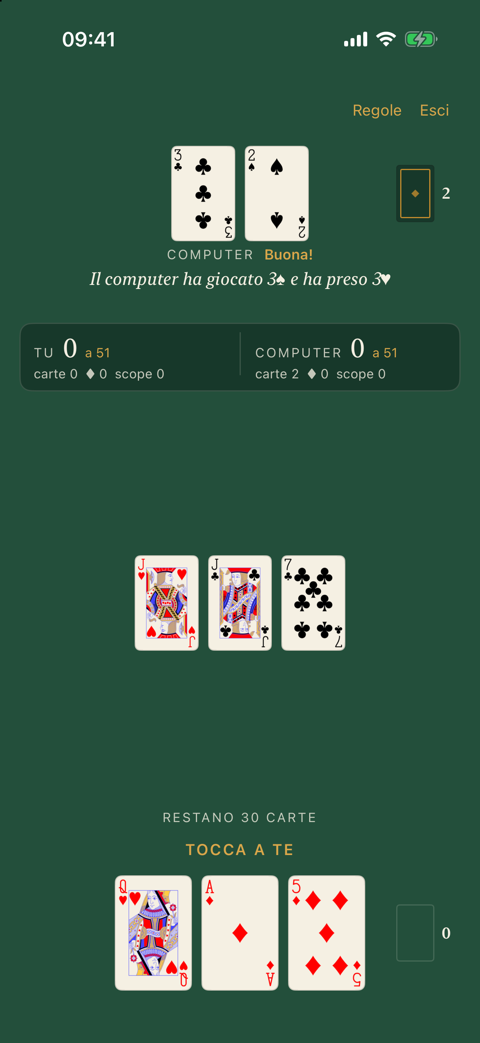
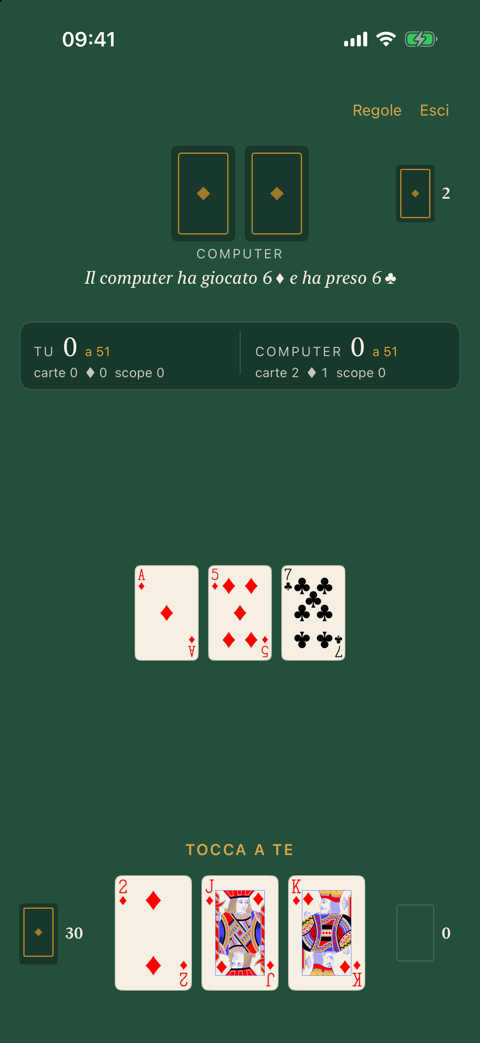
Cirulla: screenshots and copy after the 1.0 update
New table, hand-over, Settings and Italian shots (deck pile, three decks);
the scopa shot replaces Home. Copy adds the Simple deck and VoiceOver
play; results recounted (362 tests, 215 commits, about 6,500 lines).

diff --git a/work/cirulla/index.html b/work/cirulla/index.html
@@ -4,7 +4,7 @@
 <meta charset="utf-8">
 <meta name="viewport" content="width=device-width, initial-scale=1">
 <title>Cirulla · Filippo Lamanna</title>
-<meta name="description" content="Cirulla, the Ligurian card game, for iPhone: the regional rules as they are really played, three computer opponents, in English and Italian, and 336 automated tests.">
+<meta name="description" content="Cirulla, the Ligurian card game, for iPhone: the regional rules as they are really played, three computer opponents, in English and Italian, and 362 automated tests.">
 <meta property="og:title" content="Cirulla · Filippo Lamanna">
 <meta property="og:description" content="The Ligurian card game of fifteen, against the computer.">
 <meta property="og:image" content="https://filippolamanna.github.io/assets/img/og.png">
@@ -55,7 +55,7 @@
     <div class="body">
       <p>Cirulla is a Ligurian card game in the Scopa family: you capture table cards that match your card or add up to 15. There are few good ways to play it on a phone, and card apps often get the regional rules wrong.</p>
       <p>This iPhone app plays a full two-player match against the computer at three difficulty levels, following the rules as they are played in Liguria. It keeps the traditional secret declarations (buona and cirulla), shows a full score breakdown after each hand, and saves automatically so you can pick up later.</p>
-      <p>It is in English and Italian. You choose the cards at first start, Ligurian or Classic, and can switch at any time, even mid-game. Settings also hold the four house rules, capture hints, haptics, match length and a choice of two app icons.</p>
+      <p>It is in English and Italian. You choose the cards at first start, from three decks (Ligurian, Classic or the app's own Simple cards), and can switch at any time, even mid-game. Settings also hold the four house rules, capture hints, haptics, match length and a choice of two app icons.</p>
     </div>
   </section>
 
@@ -71,6 +71,7 @@
         <li>Four Ligurian house rules are on unless you switch them off: cappotto (all ten diamonds wins the match), scciupon de fotta (a scopa with the last card of the hand does not count), a monte (two or more Aces dealt to the table void the deal) and the dealer's four of a kind.</li>
         <li>Matches run to the traditional 31, 51 or 101 points.</li>
         <li>Every word on screen and every spoken VoiceOver line is in English and Italian. A test fails if any text in the app is missing its Italian.</li>
+        <li>It can be played with VoiceOver: each card says whose it is, a scopa or a declaration is announced, and buona and cirulla can be declared as VoiceOver actions.</li>
       </ul>
     </div>
   </section>
@@ -79,13 +80,13 @@
     <h2 class="mono">03 · SCREENSHOTS</h2>
     <div class="body">
       <div class="shots shots-strip">
-        <figure class="shot"><img src="/assets/img/cirulla/01-home.png" alt="Cirulla home screen with Continue and the three difficulty levels" width="480" height="1043" loading="lazy"><figcaption class="mono">Home</figcaption></figure>
-        <figure class="shot"><img src="/assets/img/cirulla/02-table.png" alt="The table with Classic cards: the computer has declared a cirulla and taken a card, and it is your turn" width="480" height="1043" loading="lazy"><figcaption class="mono">Your turn</figcaption></figure>
+        <figure class="shot"><img src="/assets/img/cirulla/01-table.png" alt="The table with Classic cards and the deck on the dealer's side: the computer has taken a seven, and it is your turn" width="480" height="1043" loading="lazy"><figcaption class="mono">Your turn</figcaption></figure>
+        <figure class="shot"><img src="/assets/img/cirulla/02-scopa.png" alt="You clear the table: Your scopa!" width="480" height="1043" loading="lazy"><figcaption class="mono">Scopa</figcaption></figure>
         <figure class="shot"><img src="/assets/img/cirulla/03-hand-result.png" alt="The end-of-hand score breakdown, category by category" width="480" height="1043" loading="lazy"><figcaption class="mono">Hand over</figcaption></figure>
-        <figure class="shot"><img src="/assets/img/cirulla/04-settings.png" alt="Settings: the Ligurian or Classic cards, the Diamond or Cards app icon, capture hints and haptics" width="480" height="1043" loading="lazy"><figcaption class="mono">Settings</figcaption></figure>
-        <figure class="shot"><img src="/assets/img/cirulla/05-italian.png" alt="The table in Italian: the computer has declared a buona and the turn line reads Tocca a te" width="480" height="1043" loading="lazy"><figcaption class="mono">In Italian</figcaption></figure>
+        <figure class="shot"><img src="/assets/img/cirulla/04-settings.png" alt="Settings: the Ligurian, Classic and Simple decks with sample cards, and the Diamond or Cards app icon" width="480" height="1043" loading="lazy"><figcaption class="mono">Settings</figcaption></figure>
+        <figure class="shot"><img src="/assets/img/cirulla/05-italian.png" alt="The table in Italian: the computer's move is described and the turn line reads Tocca a te" width="480" height="1043" loading="lazy"><figcaption class="mono">In Italian</figcaption></figure>
       </div>
-      <p class="shots-credit mono">Classic cards by Adrian Kennard, CC0. The Cards app icon in Settings uses Abjiklam's Chkobba cards, CC BY-SA 4.0.</p>
+      <p class="shots-credit mono">Classic cards by Adrian Kennard, CC0. In Settings, the Ligurian deck and the Cards app icon use Abjiklam's Chkobba cards, CC BY-SA 4.0.</p>
     </div>
   </section>
 
@@ -93,10 +94,10 @@
     <h2 class="mono">04 · RESULTS</h2>
     <div class="body">
       <div class="stats">
-        <div class="stat"><b>336</b><span>automated tests on the game engine and its packages, because for a traditional game the rules are the product</span></div>
+        <div class="stat"><b>362</b><span>automated tests on the game engine and its packages, because for a traditional game the rules are the product</span></div>
         <div class="stat"><b>3</b><span>AI levels, each checked by thousands of self-played matches to be clearly stronger than the one below</span></div>
         <div class="stat"><b>0</b><span>network calls and no personal data: everything runs on the phone</span></div>
-        <div class="stat"><b>181</b><span>commits, with about 5,700 lines of Swift in the app and packages</span></div>
+        <div class="stat"><b>215</b><span>commits, with about 6,500 lines of Swift in the app and packages</span></div>
       </div>
     </div>
   </section>
@@ -104,7 +105,7 @@
   <section class="chapter">
     <h2 class="mono">05 · HOW IT WAS BUILT</h2>
     <div class="body">
-      <p>I made the product and rule decisions: which regional rules and house rules to follow, the two decks, declarations as unprompted gestures, and the "Osteria" look of felt green, cream cards and brass. The code was written with AI assistance (Claude Code): one model wrote the plans and another carried them out, test-first.</p>
+      <p>I made the product and rule decisions: which regional rules and house rules to follow, the three decks, declarations as unprompted gestures, and the "Osteria" look of felt green, cream cards and brass. The code was written with AI assistance (Claude Code): one model wrote the plans and another carried them out, test-first.</p>
       <p>Playing it on my phone, I caught a rules error the model had written into the spec: the capture obligation applies to the card you play, not your whole hand. The hard part was rule fidelity. Small misreadings change how the game feels, and only real play exposed them.</p>
     </div>
   </section>
